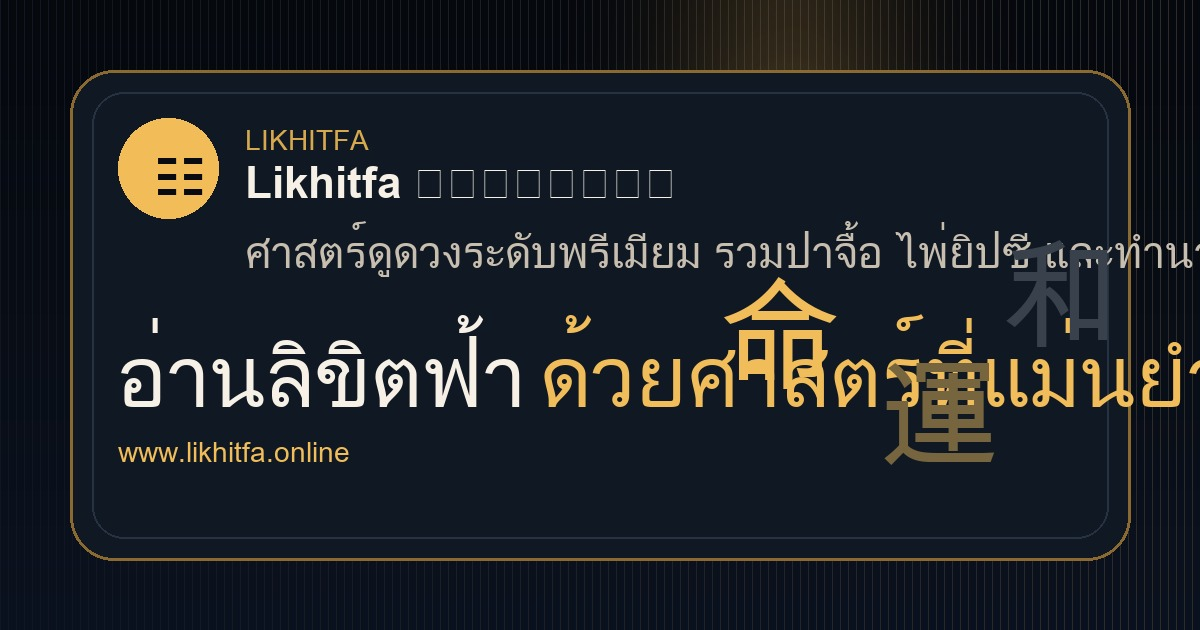
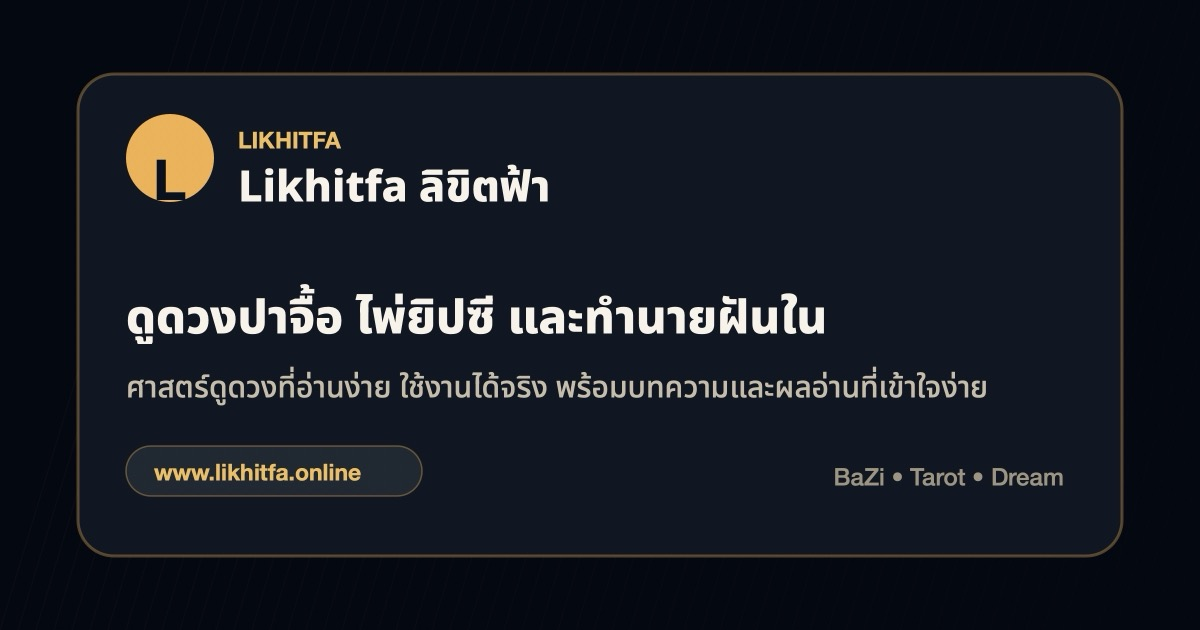
Refresh social preview image

diff --git a/scripts/generate-og-image.swift b/scripts/generate-og-image.swift
@@ -1,0 +1,150 @@
+import AppKit
+
+let width = 1200
+let height = 630
+let size = NSSize(width: width, height: height)
+let image = NSImage(size: size)
+
+func color(_ hex: UInt32) -> NSColor {
+  let r = CGFloat((hex >> 16) & 0xff) / 255
+  let g = CGFloat((hex >> 8) & 0xff) / 255
+  let b = CGFloat(hex & 0xff) / 255
+  return NSColor(red: r, green: g, blue: b, alpha: 1)
+}
+
+func paragraph(alignment: NSTextAlignment = .left, lineHeight: CGFloat = 1.18) -> NSMutableParagraphStyle {
+  let style = NSMutableParagraphStyle()
+  style.alignment = alignment
+  style.lineHeightMultiple = lineHeight
+  return style
+}
+
+func font(_ name: String, _ size: CGFloat, fallbackWeight: NSFont.Weight = .regular) -> NSFont {
+  NSFont(name: name, size: size) ?? NSFont.systemFont(ofSize: size, weight: fallbackWeight)
+}
+
+func drawText(
+  _ text: String,
+  in rect: NSRect,
+  font: NSFont,
+  color: NSColor,
+  alignment: NSTextAlignment = .left,
+  lineHeight: CGFloat = 1.16
+) {
+  let attrs: [NSAttributedString.Key: Any] = [
+    .font: font,
+    .foregroundColor: color,
+    .paragraphStyle: paragraph(alignment: alignment, lineHeight: lineHeight),
+  ]
+  (text as NSString).draw(in: rect, withAttributes: attrs)
+}
+
+func roundedRect(_ rect: NSRect, radius: CGFloat, fill: NSColor, stroke: NSColor? = nil, lineWidth: CGFloat = 1) {
+  let path = NSBezierPath(roundedRect: rect, xRadius: radius, yRadius: radius)
+  fill.setFill()
+  path.fill()
+  if let stroke {
+    stroke.setStroke()
+    path.lineWidth = lineWidth
+    path.stroke()
+  }
+}
+
+image.lockFocus()
+
+let context = NSGraphicsContext.current!.cgContext
+context.setFillColor(color(0x030811).cgColor)
+context.fill(CGRect(x: 0, y: 0, width: width, height: height))
+
+for i in 0..<80 {
+  let alpha = CGFloat(80 - i) / 80 * 0.035
+  context.setStrokeColor(NSColor(red: 0.95, green: 0.65, blue: 0.21, alpha: alpha).cgColor)
+  context.setLineWidth(1)
+  let x = CGFloat(i) * 18
+  context.move(to: CGPoint(x: x, y: 0))
+  context.addLine(to: CGPoint(x: x + 190, y: CGFloat(height)))
+  context.strokePath()
+}
+
+let cardRect = NSRect(x: 78, y: 74, width: 1044, height: 482)
+roundedRect(
+  cardRect,
+  radius: 36,
+  fill: NSColor(red: 0.055, green: 0.091, blue: 0.135, alpha: 1),
+  stroke: NSColor(red: 0.87, green: 0.62, blue: 0.24, alpha: 0.38),
+  lineWidth: 3
+)
+
+let logoRect = NSRect(x: 126, y: 428, width: 88, height: 88)
+let logoPath = NSBezierPath(ovalIn: logoRect)
+NSColor(red: 0.96, green: 0.69, blue: 0.28, alpha: 1).setFill()
+logoPath.fill()
+drawText(
+  "L",
+  in: NSRect(x: 126, y: 424, width: 88, height: 72),
+  font: font("HelveticaNeue-Bold", 56, fallbackWeight: .heavy),
+  color: color(0x07111f),
+  alignment: .center
+)
+
+drawText(
+  "LIKHITFA",
+  in: NSRect(x: 238, y: 476, width: 300, height: 32),
+  font: font("HelveticaNeue-Bold", 23, fallbackWeight: .bold),
+  color: color(0xf3bd55)
+)
+drawText(
+  "Likhitfa ลิขิตฟ้า",
+  in: NSRect(x: 238, y: 421, width: 520, height: 64),
+  font: font("NotoSansThai-ExtraBold", 43, fallbackWeight: .heavy),
+  color: color(0xf8f3e9)
+)
+
+drawText(
+  "ดูดวงปาจื้อ ไพ่ยิปซี และทำนายฝันในเว็บเดียว",
+  in: NSRect(x: 126, y: 286, width: 870, height: 72),
+  font: font("NotoSansThai-ExtraBold", 47, fallbackWeight: .heavy),
+  color: color(0xf8f3e9)
+)
+
+drawText(
+  "ศาสตร์ดูดวงที่อ่านง่าย ใช้งานได้จริง พร้อมบทความและผลอ่านที่เข้าใจง่าย",
+  in: NSRect(x: 126, y: 214, width: 900, height: 58),
+  font: font("NotoSansThai-Medium", 30, fallbackWeight: .medium),
+  color: NSColor(red: 0.78, green: 0.74, blue: 0.66, alpha: 1)
+)
+
+let pillRect = NSRect(x: 126, y: 134, width: 296, height: 50)
+roundedRect(
+  pillRect,
+  radius: 25,
+  fill: NSColor(red: 0.12, green: 0.16, blue: 0.20, alpha: 1),
+  stroke: NSColor(red: 0.87, green: 0.62, blue: 0.24, alpha: 0.42),
+  lineWidth: 1.5
+)
+drawText(
+  "www.likhitfa.online",
+  in: NSRect(x: 154, y: 140, width: 250, height: 36),
+  font: font("HelveticaNeue-Bold", 23, fallbackWeight: .bold),
+  color: color(0xf3bd55)
+)
+
+drawText(
+  "BaZi • Tarot • Dream",
+  in: NSRect(x: 764, y: 138, width: 300, height: 34),
+  font: font("HelveticaNeue-Medium", 24, fallbackWeight: .medium),
+  color: NSColor(red: 0.62, green: 0.58, blue: 0.50, alpha: 1),
+  alignment: .right
+)
+
+image.unlockFocus()
+
+guard
+  let tiff = image.tiffRepresentation,
+  let bitmap = NSBitmapImageRep(data: tiff),
+  let jpg = bitmap.representation(using: .jpeg, properties: [.compressionFactor: 0.9])
+else {
+  fatalError("Could not render og-image.jpg")
+}
+
+try jpg.write(to: URL(fileURLWithPath: "public/og-image.jpg"))

diff --git a/src/lib/seo.ts b/src/lib/seo.ts
@@ -1,6 +1,6 @@
 const SITE_NAME = "Likhitfa ลิขิตฟ้า";
 const SITE_URL = "https://www.likhitfa.online";
-const DEFAULT_IMAGE = `${SITE_URL}/og-image.jpg`;
+const DEFAULT_IMAGE = `${SITE_URL}/og-image.jpg?v=20260609`;
 export const googleAnalyticsId = "G-7F7B1DXGC1";
 export const googleSearchVerification =
   import.meta.env.VITE_GOOGLE_SITE_VERIFICATION ||
@@ -89,7 +89,7 @@ export function organizationJsonLd() {
     name: SITE_NAME,
     alternateName: ["Likhitfa", "ลิขิตฟ้า"],
     url: SITE_URL,
-    logo: `${SITE_URL}/og-image.jpg`,
+    logo: DEFAULT_IMAGE,
     contactPoint: {
       "@type": "ContactPoint",
       contactType: "customer support",